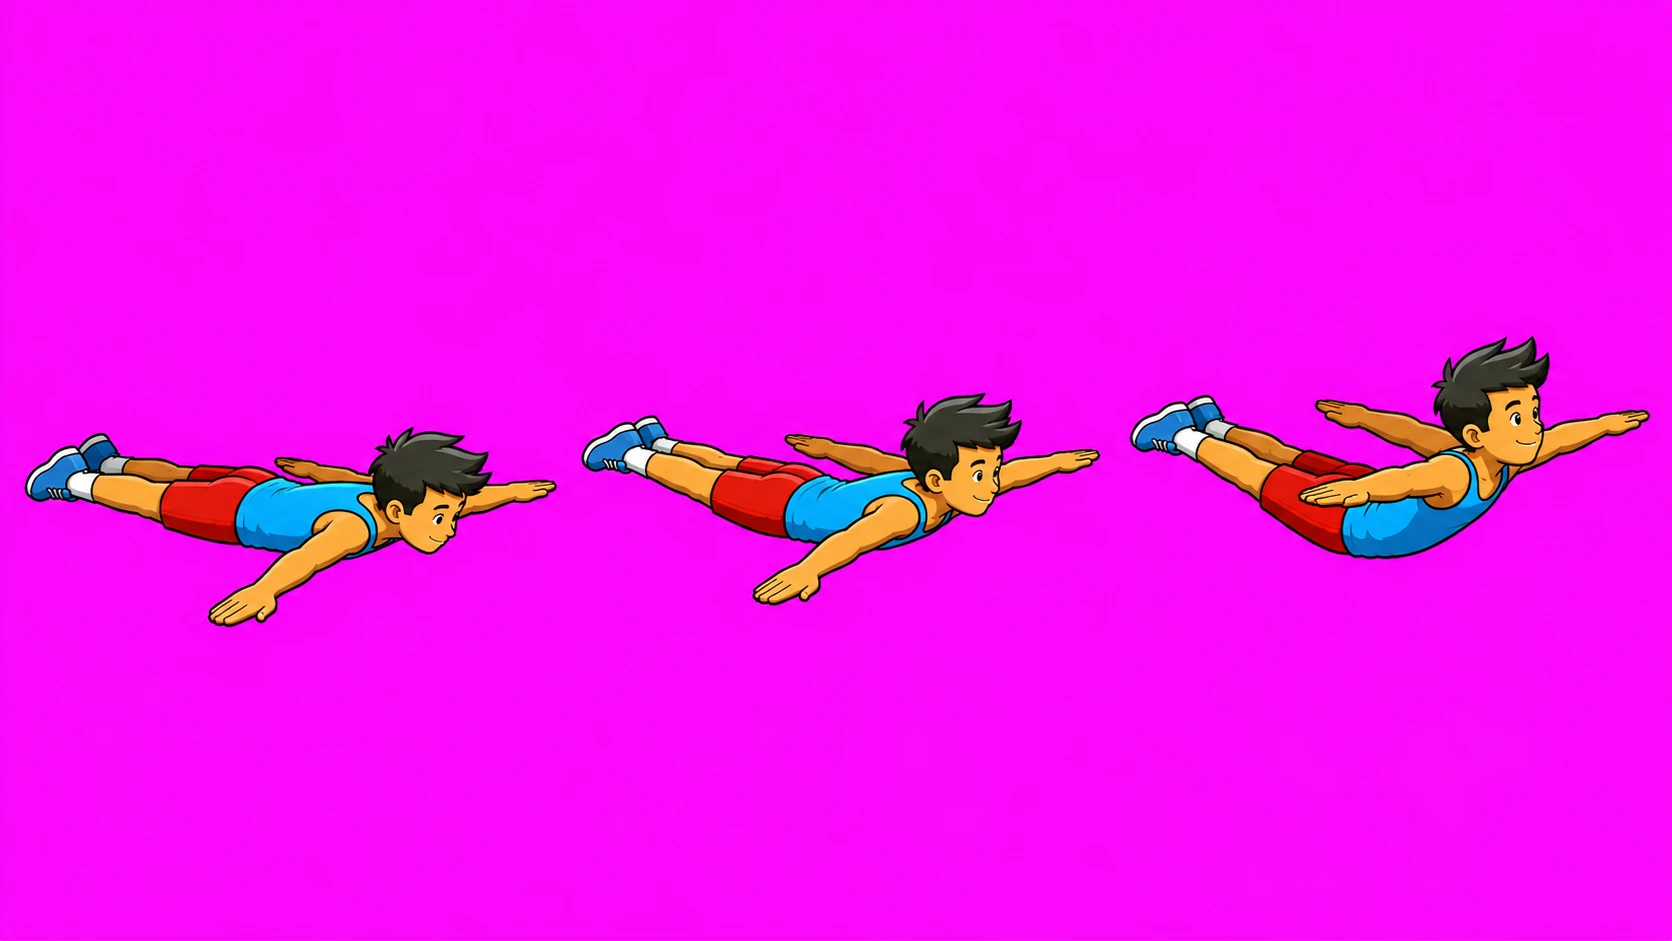
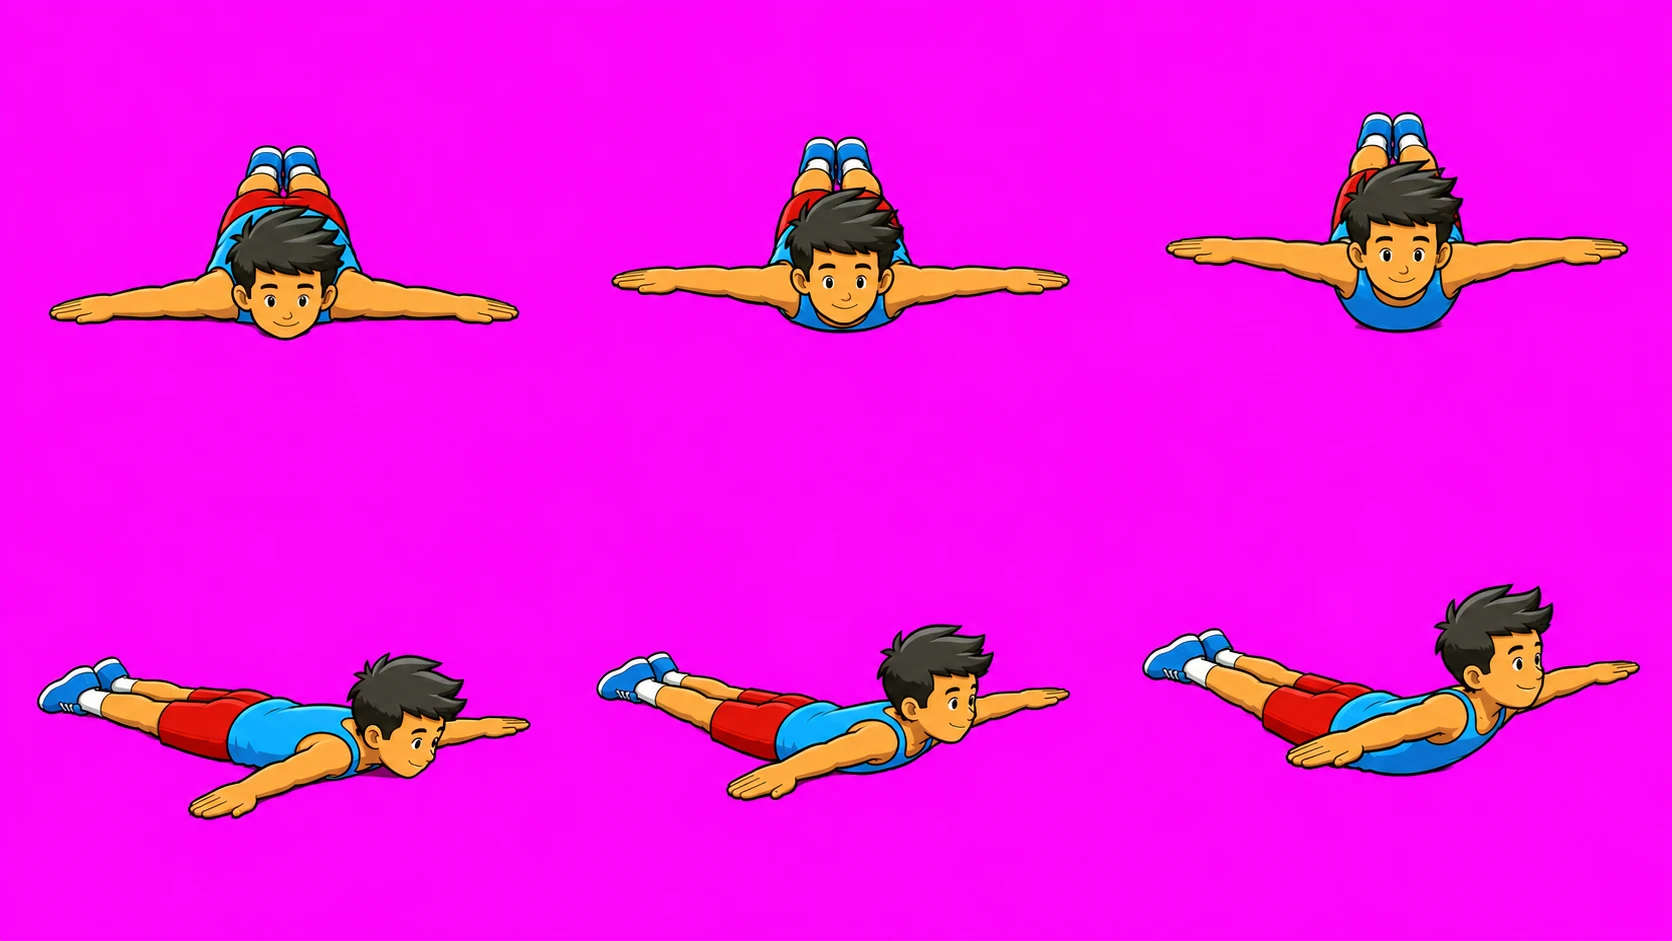
Chart 4 back extension (front view) in the viewer

diff --git a/PROMPTS.md b/PROMPTS.md
@@ -1313,7 +1313,7 @@ BACKGROUND: perfectly flat solid magenta (#FF00FF), nothing else. No ground shad
 - Movement: Lift head, shoulders, arms, chest and both legs as high as possible.
 - Note: Keep legs straight, raise chest and both thighs completely off floor.
 
-**Kept:** (not made yet)
+**Kept:** ChatGPT retake 1, row 1 (front view). The side three-quarter row failed: the near arm trailed back along the body.
 
 **Check before you keep a take:**
 
@@ -1324,14 +1324,15 @@ BACKGROUND: perfectly flat solid magenta (#FF00FF), nothing else. No ground shad
 
 **My decisions to check [DRAFT]:**
 
-- Stretched-out arms point toward and away from the camera in a pure side view, which would hide them. I asked for a three-quarter view from slightly above. If the arms still do not show, try 'seen from above and slightly in front of his head' and tell me what you get.
+- Front view chosen after a two-camera test: it is the only one that shows both arms as a T. The lift reads as the head and chest rising toward the camera and the feet rising behind; it is subtler than in a side view.
+- A side three-quarter view made the near arm trail back along the body (a swimmer, not a T), so it was rejected.
 
 **Prompt, with a character reference attached:**
 
 ```text
 Using the attached reference image ONLY for the character's appearance and art style (a 12-year-old boy: short spiky black hair, warm tan skin, simple friendly face with small dark eyes, athletic but slim build. Bright cyan-blue sleeveless tank top, red athletic shorts, white ankle socks, blue sneakers with white laces and soles. Clean cartoon video-game illustration: confident medium-weight black outline, flat cel shading with one soft shadow tone, vivid saturated colors, high detail, crisp edges). IGNORE the poses in the reference image completely.
 
-Create a NEW wide 16:9 pose sheet of that same boy doing a BACK EXTENSION WITH THE ARMS STRETCHED SIDEWAYS, shown THREE times left to right, three-quarter view from slightly above, looking down at him, so that both outstretched arms are visible, facing right, with the SAME camera angle in every pose. In every pose he lies FACE DOWN, flat on his belly, with his HEAD ON THE RIGHT and his FEET ON THE LEFT. Same scale, all on the same invisible floor line, wide empty gaps between figures.
+Create a NEW wide 16:9 pose sheet of that same boy doing a BACK EXTENSION WITH THE ARMS STRETCHED SIDEWAYS, shown THREE times left to right, seen from the FRONT and slightly above, his head nearer the camera and his feet farther away, so that both arms stick out to the left and right of his body like a T. In every pose he lies FACE DOWN, flat on his belly, head toward the camera. Same scale, all on the same invisible floor line, wide empty gaps between figures.
 
 KEY BODY RULE FOR ALL THREE POSES: his arms are stretched straight out SIDEWAYS from the shoulders, like the letter T, one arm out to each side of his body, palms down. His arms are NOT under his thighs and NOT in front of him.
 
@@ -1350,7 +1351,7 @@ BACKGROUND: perfectly flat solid magenta (#FF00FF), nothing else. No ground shad
 **Prompt for the very first strip (no reference, character in words):**
 
 ```text
-Generate a wide 16:9 character pose sheet for a fitness animation: ONE boy shown THREE times, left to right, doing a BACK EXTENSION WITH THE ARMS STRETCHED SIDEWAYS, three-quarter view from slightly above, looking down at him, so that both outstretched arms are visible, facing right, with the SAME camera angle in every pose. This is a pose-by-pose animation reference, so all three figures must be the same character at the same scale. In every pose he lies FACE DOWN, flat on his belly, with his HEAD ON THE RIGHT and his FEET ON THE LEFT. Same scale, all on the same invisible floor line, wide empty gaps between figures.
+Generate a wide 16:9 character pose sheet for a fitness animation: ONE boy shown THREE times, left to right, doing a BACK EXTENSION WITH THE ARMS STRETCHED SIDEWAYS, seen from the FRONT and slightly above, his head nearer the camera and his feet farther away, so that both arms stick out to the left and right of his body like a T. This is a pose-by-pose animation reference, so all three figures must be the same character at the same scale. In every pose he lies FACE DOWN, flat on his belly, head toward the camera. Same scale, all on the same invisible floor line, wide empty gaps between figures.
 
 CHARACTER (keep identical in every pose): a 12-year-old boy: short spiky black hair, warm tan skin, simple friendly face with small dark eyes, athletic but slim build. Bright cyan-blue sleeveless tank top, red athletic shorts, white ankle socks, blue sneakers with white laces and soles. Clean cartoon video-game illustration: confident medium-weight black outline, flat cel shading with one soft shadow tone, vivid saturated colors, high detail, crisp edges.
 
